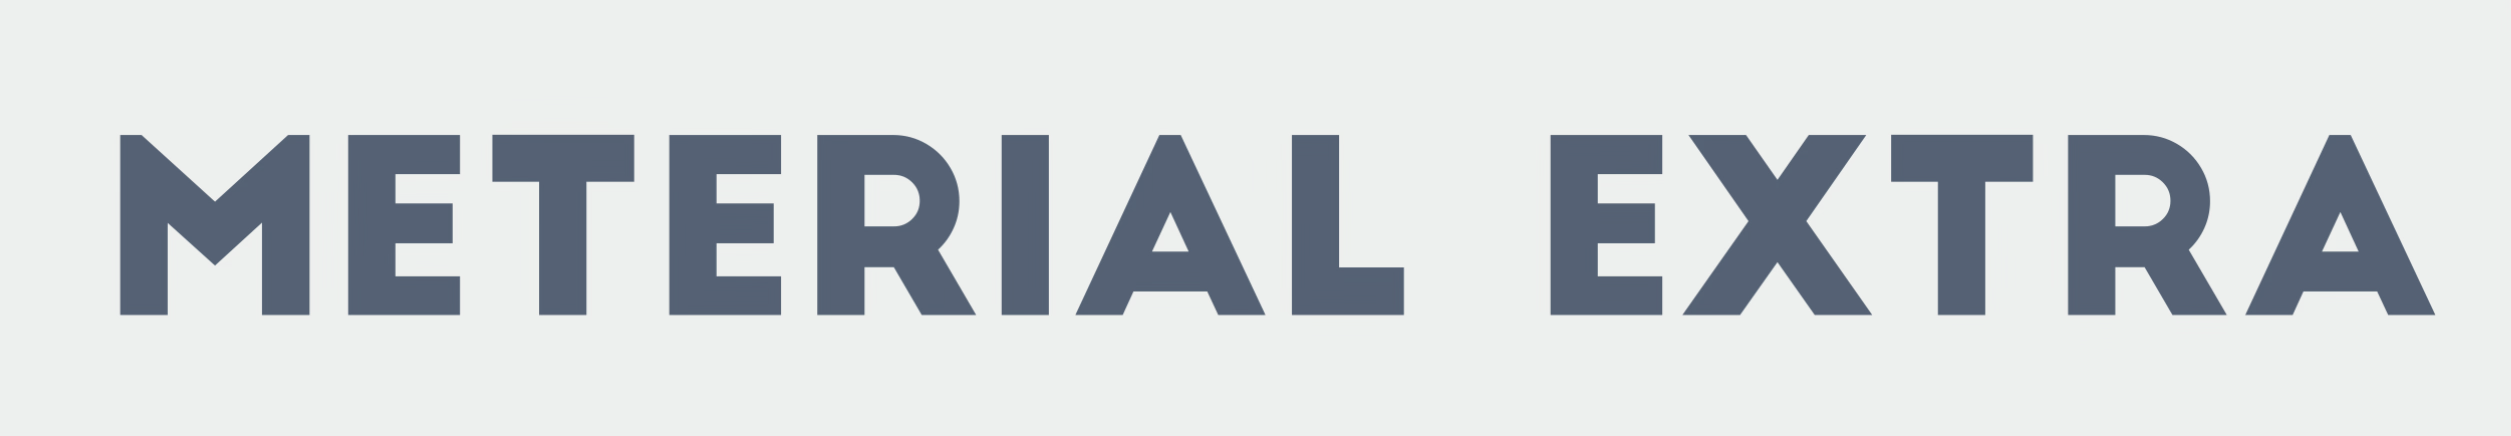
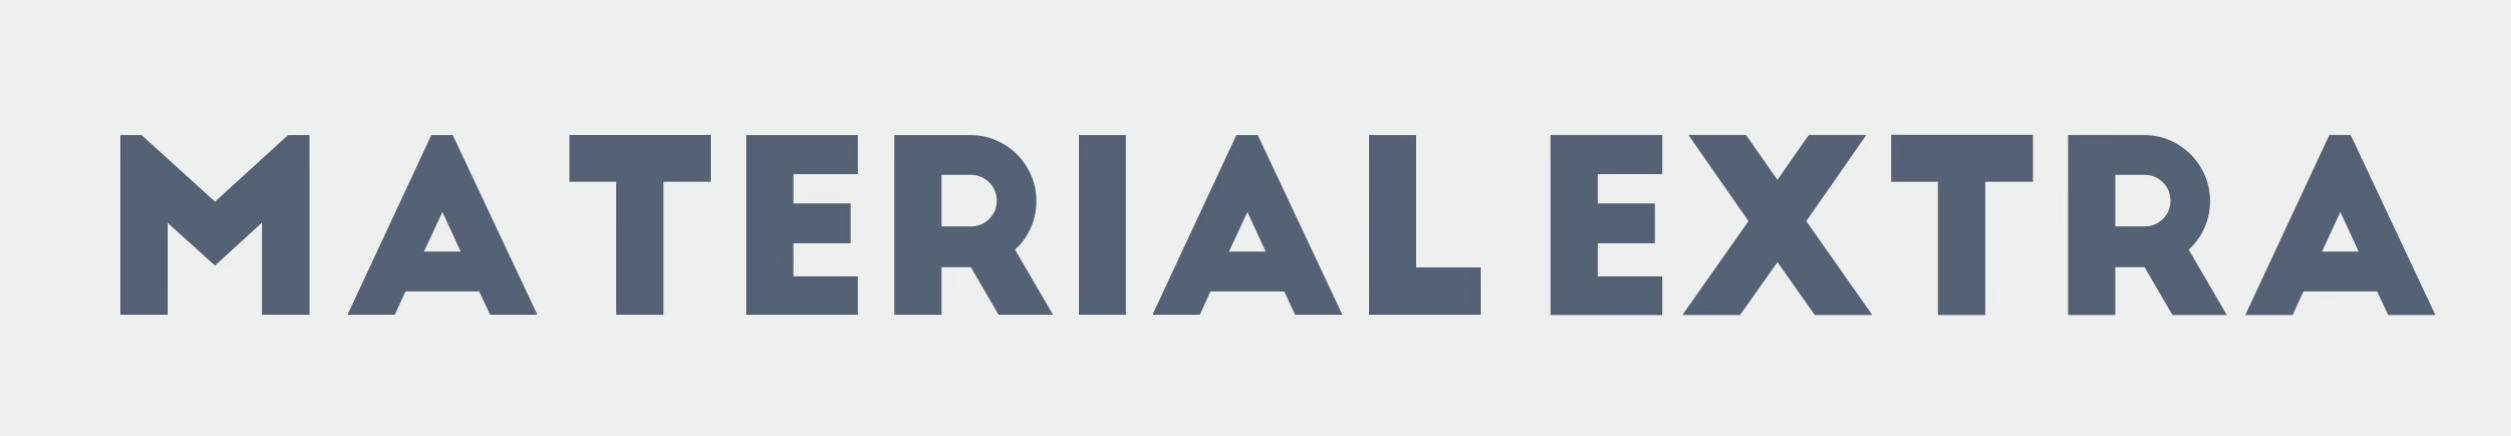
Rename project to Material Extra
Synchronize visible names, package identifiers, archive filenames, documentation, and the README logo.

Changed region(s): [[0.1243, 0.2982, 0.5902, 0.7454]]

diff --git a/app/blog.py b/app/blog.py
@@ -1196,7 +1196,7 @@ def server_runtime_status():
 
 
 class BlogHandler(BaseHTTPRequestHandler):
-    server_version = "MeterialExtra/0.1.2"
+    server_version = "MaterialExtra/0.1.2"
     def log_message(self, fmt, *args): print("[%s] %s" % (self.log_date_time_string(), fmt % args))
     @property
     def admin_port(self): return self.server.server_port == ADMIN_PORT
@@ -2543,7 +2543,7 @@ class BlogHandler(BaseHTTPRequestHandler):
 
 def main():
     guest = ThreadingHTTPServer((os.getenv("GUEST_BIND_HOST", "0.0.0.0"), PORT), BlogHandler); admin = ThreadingHTTPServer((os.getenv("ADMIN_BIND_HOST", "127.0.0.1"), ADMIN_PORT), BlogHandler)
-    threading.Thread(target=admin.serve_forever, daemon=True).start(); print(f"Meterial Extra guest :{PORT}, admin :{ADMIN_PORT}"); guest.serve_forever()
+    threading.Thread(target=admin.serve_forever, daemon=True).start(); print(f"Material Extra guest :{PORT}, admin :{ADMIN_PORT}"); guest.serve_forever()
 
 
 if __name__ == "__main__": main()

diff --git a/README.md b/README.md
@@ -1,17 +1,17 @@
-# Meterial Extra
+# Material Extra
 
-![Logo](docs/images/IMG_8191.png)
+![Material Extra Logo](docs/images/IMG_8191.png)
 
 一个基于 Material 3 的个人内容站点模板，包含访客网站、独立管理端和轻量 Python 服务端。界面与数据均为重新生成的演示内容，不包含原部署实例的文章、用户、图片、账号、接口地址或服务器配置。
 
 <p align="center">
-  <a href="https://github.com/shawnhoa/meterial-extra/releases/tag/v0.1.2">下载 v0.1.2</a> ·
-  <a href="https://github.com/shawnhoa/meterial-extra">源代码</a>
+  <a href="https://github.com/shawnhoa/material-extra/releases/tag/v0.1.2">下载 v0.1.2</a> ·
+  <a href="https://github.com/shawnhoa/material-extra">源代码</a>
 </p>
 
 ## 预览
 
-线上部署示例：[站点所有者的实例](https://shawnho.top/)。该站点内容与本仓库无关，不会被复制到演示数据中。仓库预览图展示的是该主题框架的演示界面。
+线上部署示例：[星屿笔记站点所有者的实例](https://shawnho.top/)。该站点内容与本仓库无关，不会被复制到演示数据中。仓库预览图展示的是重新生成的演示界面。
 
 ![桌面端演示](./docs/images/demo-desktop.png)
 
@@ -77,6 +77,7 @@ Dockerfile           容器构建文件
 
 ### v0.1.2
 
+- 将项目名称统一更正为 Material Extra。
 - 串行化状态文件的读取、修改与保存，避免并发请求覆盖站点数据。
 - 刷新桌面端与移动端演示截图，使仓库预览与当前模板一致。
 - 忽略本地截图与界面审计数据目录，避免运行时文件进入版本控制。
@@ -85,7 +86,6 @@ Dockerfile           容器构建文件
 
 - 修复关于页引用缺失角色素材和页脚演示备案资源的问题。
 - 刷新桌面端演示截图，并更新发布归档。
-
 
 ## License
 

diff --git a/SECURITY.md b/SECURITY.md
@@ -4,4 +4,4 @@ Please report vulnerabilities privately through GitHub Security Advisories rathe
 
 Never include passwords, session cookies, API tokens, private keys, production databases, or user-uploaded files in a report or pull request.
 
-Meterial Extra is a frontend theme. Applications that connect it to authentication, comments, file uploads, or administration must provide their own server-side validation, authorization, rate limiting, and secure session handling.
+Material Extra is a frontend theme. Applications that connect it to authentication, comments, file uploads, or administration must provide their own server-side validation, authorization, rate limiting, and secure session handling.

diff --git a/CONTRIBUTING.md b/CONTRIBUTING.md
@@ -1,6 +1,6 @@
 # Contributing
 
-Thank you for improving Meterial Extra.
+Thank you for improving Material Extra.
 
 ## Before opening a pull request
 
